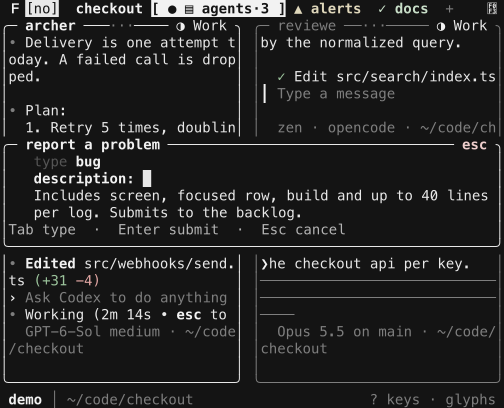
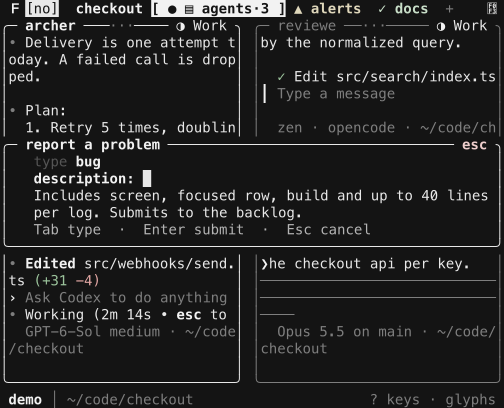
fix(mux): align report footer with body padding

diff --git a/crates/fno/tests/client_e2e.rs b/crates/fno/tests/client_e2e.rs
@@ -534,7 +534,16 @@ printf '{\n  "id": "probe-abcd",\n  "title": "portal stopped"\n}\n'
         .unwrap();
     }
     h.type_bytes(b"\x02!");
-    h.wait_screen(5, |s| s.contains("report a problem"));
+    let report_screen = h.wait_screen(5, |s| s.contains("report a problem"));
+    let body_column = report_screen
+        .lines()
+        .find_map(|line| line.find("Includes screen"))
+        .expect("report capture notice");
+    let footer_column = report_screen
+        .lines()
+        .find_map(|line| line.find("Tab type"))
+        .expect("report action hints");
+    assert_eq!(footer_column, body_column, "report footer aligns with body");
     let cursor_deadline = std::time::Instant::now() + Duration::from_secs(2);
     loop {
         h.screen();

diff --git a/crates/fno/src/client/report.rs b/crates/fno/src/client/report.rs
@@ -67,9 +67,9 @@ impl Report {
         )
         .title("report a problem")
         .footer(if self.pending.is_some() {
-            "filing…"
+            "   filing…"
         } else {
-            "Tab type  ·  Enter submit  ·  Esc cancel"
+            "   Tab type  ·  Enter submit  ·  Esc cancel"
         })
         .plain_body()
     }
